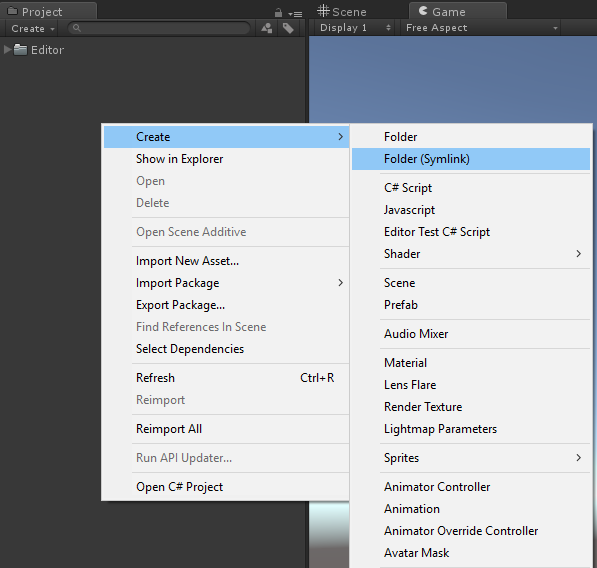
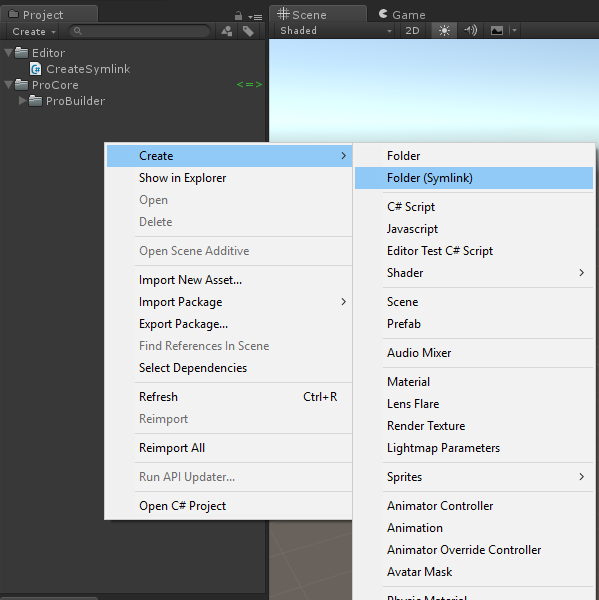
Wait until mklink process is finished before refreshing project.  Fix errors when creating new files or folders.

Changed region(s): [[0.0, 0.0, 1.0, 1.0]]

diff --git a/SymlinkUtility.cs b/SymlinkUtility.cs
@@ -51,10 +51,13 @@ namespace Parabox
 		{
 			string path = AssetDatabase.GUIDToAssetPath(guid);
 
-			FileAttributes attribs = File.GetAttributes(path);
+			if(!string.IsNullOrEmpty(path))
+			{
+				FileAttributes attribs = File.GetAttributes(path);
 
-			if( (attribs & FOLDER_SYMLINK_ATTRIBS) == FOLDER_SYMLINK_ATTRIBS )
-				GUI.Label(r, "<=>", symlinkMarkerStyle);
+				if((attribs & FOLDER_SYMLINK_ATTRIBS) == FOLDER_SYMLINK_ATTRIBS )
+					GUI.Label(r, "<=>", symlinkMarkerStyle);
+			}
 		}
 
 		/**
@@ -104,13 +107,15 @@ namespace Parabox
 			}
 
 	#if UNITY_EDITOR_WIN
-			Process.Start("CMD.exe", string.Format("/C mklink /J \"{0}\" \"{1}\"", targetPath, sourceFolderPath));
-			UnityEngine.Debug.Log(string.Format("Created symlink: {0} <=> {1}", targetPath, sourceFolderPath));
+			Process cmd = Process.Start("CMD.exe", string.Format("/C mklink /J \"{0}\" \"{1}\"", targetPath, sourceFolderPath));
+			cmd.WaitForExit();
 	#elif UNITY_EDITOR_OSX || UNITY_EDITOR_LINUX
 			// @todo
 	#endif
 			
-			AssetDatabase.Refresh();
+			// UnityEngine.Debug.Log(string.Format("Created symlink: {0} <=> {1}", targetPath, sourceFolderPath));
+
+			AssetDatabase.Refresh(ImportAssetOptions.ForceUpdate);
 		}
 	}
 }

diff --git a/README.md b/README.md
@@ -2,7 +2,7 @@
 
 A small extension that adds a menu item to add folders as symlinks in Unity.
 
-## Quick Warning from Unity
+**A warning from Unity**
 
 > Using symlinks in Unity projects may cause your project to become corrupted if you create multiple references to the same asset, use recursive symlinks or use symlinks to share assets between projects used with different versions of Unity. Make sure you know what you are doing.
 
